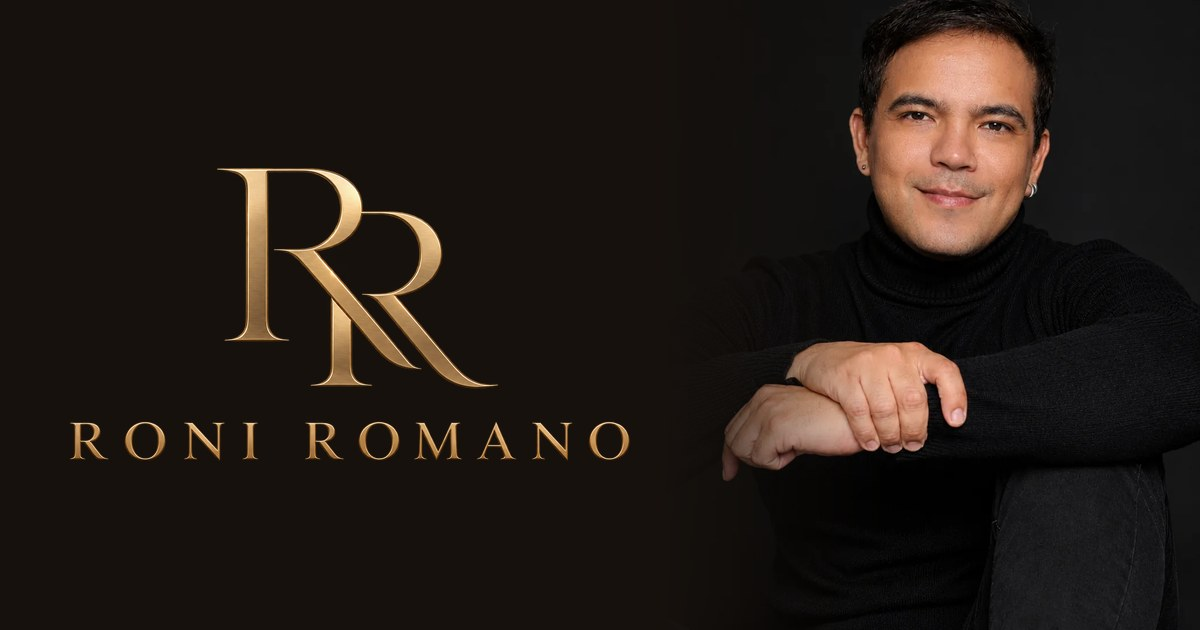
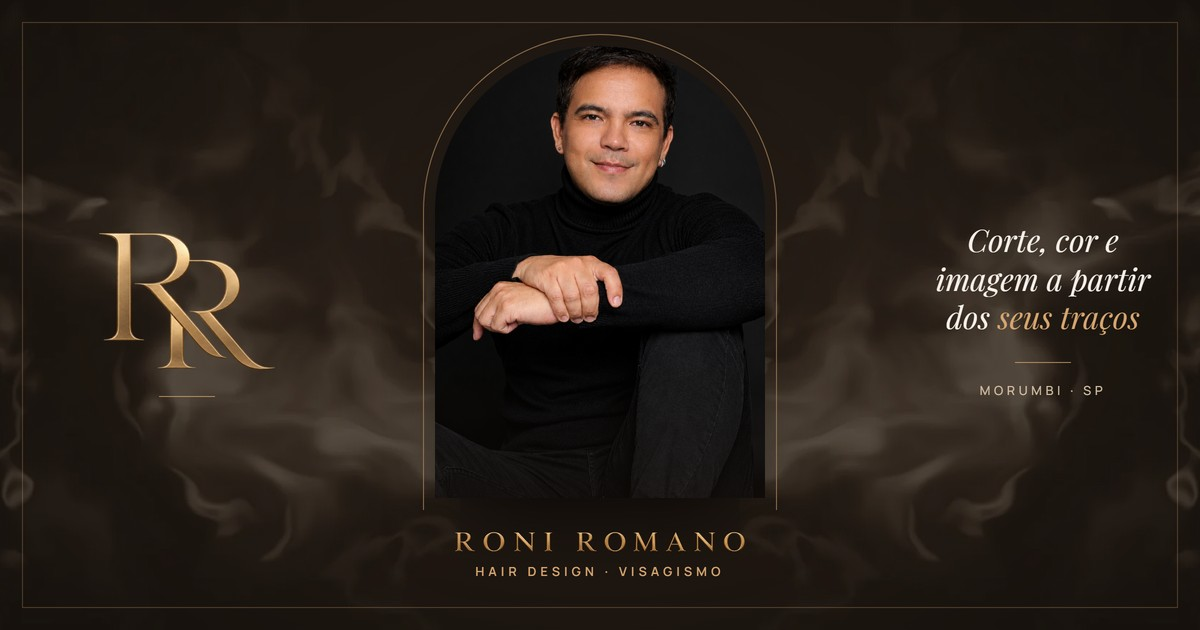
Rolagem suave nos links internos e nova prévia de link
- logo, menu e botões de agendar rolam com animação em vez de saltar
- og.jpg refeito em tools/og.html + og.py: foto em arco no centro, que
  sobrevive ao recorte quadrado do WhatsApp; meta tags completas

diff --git a/tools/og.html b/tools/og.html
@@ -1,0 +1,61 @@
+<!doctype html>
+<!-- Prévia de link (og.jpg, 1200×630), renderizada por tools/og.py.
+     O essencial (foto em arco + nome) fica no quadrado central de 630 px, porque o WhatsApp
+     muitas vezes mostra a prévia como miniatura quadrada cortada no meio. -->
+<html lang="pt-BR">
+<head>
+<meta charset="utf-8">
+<link href="https://fonts.googleapis.com/css2?family=Manrope:wght@500;600&family=Playfair+Display:ital,wght@1,400&display=swap" rel="stylesheet">
+<style>
+  :root{--cafe:#16110d;--cafe-2:#211913;--creme:#f6f1ea;--areia:#d2bea3;--caramelo-2:#d6a670}
+  *{box-sizing:border-box}
+  html,body{margin:0;width:1200px;height:630px;overflow:hidden}
+  body{position:relative;background:radial-gradient(ellipse 60% 80% at 50% 45%,#2a2018 0%,var(--cafe-2) 40%,var(--cafe) 100%);
+    font-family:Manrope,sans-serif;color:var(--creme);-webkit-font-smoothing:antialiased}
+  .fumaca{position:absolute;top:-40px;height:720px;width:520px;object-fit:cover;mix-blend-mode:screen;opacity:.55}
+  .fumaca--e{left:-60px}
+  .fumaca--d{right:-60px;transform:scaleX(-1)}
+  .moldura{position:absolute;inset:22px;border:1px solid rgba(214,166,112,.28)}
+  .arco{position:absolute;left:435px;top:46px;width:330px;height:452px;border-radius:165px 165px 0 0;overflow:hidden;
+    box-shadow:0 40px 80px -30px rgba(0,0,0,.8)}
+  .arco img{width:100%;height:100%;object-fit:cover;object-position:50% 20%;display:block}
+  .arco::after{content:"";position:absolute;inset:0;background:linear-gradient(0deg,rgba(22,17,13,.55),rgba(22,17,13,0) 32%)}
+  .arco-fio{position:absolute;left:423px;top:34px;width:354px;height:476px;border:1px solid rgba(214,166,112,.6);border-bottom:0;border-radius:177px 177px 0 0}
+  .nome{position:absolute;left:0;right:0;top:532px;display:flex;flex-direction:column;align-items:center;gap:14px}
+  .nome img{width:290px;height:auto}
+  .nome span{font:600 12.5px/1 Manrope,sans-serif;letter-spacing:.34em;text-transform:uppercase;color:var(--caramelo-2)}
+  .lado{position:absolute;top:0;bottom:0;width:250px;display:flex;flex-direction:column;align-items:center;justify-content:center;text-align:center}
+  .lado--e{left:62px}
+  .lado--d{right:44px;width:226px}
+  .rr{width:176px;height:auto}
+  .fio{width:56px;height:1px;background:var(--caramelo-2);opacity:.7;margin:26px 0 0}
+  .frase{font:italic 400 31px/1.24 "Playfair Display",serif;color:var(--creme);margin:0}
+  .frase em{color:var(--caramelo-2)}
+  .local{margin-top:22px;font:500 12.5px/1 Manrope,sans-serif;letter-spacing:.3em;text-transform:uppercase;color:var(--areia)}
+</style>
+</head>
+<body>
+  <img class="fumaca fumaca--e" src="../assets/img/fumaca-poster.webp" alt="">
+  <img class="fumaca fumaca--d" src="../assets/img/fumaca-poster.webp" alt="">
+  <div class="moldura"></div>
+
+  <div class="lado lado--e">
+    <img class="rr" src="../assets/img/logo-rr.png" alt="">
+    <div class="fio"></div>
+  </div>
+
+  <div class="arco-fio"></div>
+  <div class="arco"><img src="../../hero-para-melhorar/roni-hero-hd.png" alt=""></div>
+
+  <div class="nome">
+    <img src="../assets/img/logo-nome.png" alt="Roni Romano">
+    <span>Hair design · Visagismo</span>
+  </div>
+
+  <div class="lado lado--d">
+    <p class="frase">Corte, cor e imagem a partir dos <em>seus traços</em></p>
+    <div class="fio"></div>
+    <p class="local">Morumbi · SP</p>
+  </div>
+</body>
+</html>

diff --git a/index.html b/index.html
@@ -17,15 +17,19 @@
 <meta property="og:title" content="Roni Romano · Hair Design e Visagismo">
 <meta property="og:description" content="Corte, cor e imagem planejados a partir dos seus traços. Morumbi, São Paulo.">
 <meta property="og:url" content="https://azeugral.github.io/roni-romano/">
-<meta property="og:image" content="https://azeugral.github.io/roni-romano/og.jpg?v=3">
+<meta property="og:image" content="https://azeugral.github.io/roni-romano/og.jpg?v=4">
+<meta property="og:image:secure_url" content="https://azeugral.github.io/roni-romano/og.jpg?v=4">
+<meta property="og:image:type" content="image/jpeg">
+<meta property="og:image:alt" content="Roni Romano, hair designer e visagista, em retrato com a logo dourada RR">
 <meta property="og:image:width" content="1200">
 <meta property="og:image:height" content="630">
 <meta name="twitter:card" content="summary_large_image">
+<meta name="twitter:image" content="https://azeugral.github.io/roni-romano/og.jpg?v=4">
 <link rel="preconnect" href="https://fonts.googleapis.com">
 <link rel="preconnect" href="https://fonts.gstatic.com" crossorigin>
 <link href="https://fonts.googleapis.com/css2?family=Manrope:wght@400;500;600&family=Playfair+Display:ital,wght@0,400;0,500;1,400&display=swap" rel="stylesheet">
 <link rel="preload" as="image" href="assets/img/roni-hero-1080.webp" imagesrcset="assets/img/roni-hero-640.webp 640w, assets/img/roni-hero-1080.webp 942w" imagesizes="(max-width:900px) 100vw, 50vw">
-<link rel="stylesheet" href="assets/style.css?v=20261026">
+<link rel="stylesheet" href="assets/style.css?v=20261027">
 <script>document.documentElement.classList.add("js")</script>
 <script type="application/ld+json">
 {"@context":"https://schema.org","@type":"HairSalon","name":"Roni Romano Hair Design","description":"Hair design, visagismo, coloração, coloração pessoal, noivas e maquiagem.","telephone":"+55 11 98299-1393","address":{"@type":"PostalAddress","streetAddress":"Rua Deputado João Sussumu Hirata, 43","addressLocality":"São Paulo","addressRegion":"SP","postalCode":"05715-010","addressCountry":"BR"},"sameAs":["https://www.instagram.com/roniromano/"]}
@@ -289,7 +293,7 @@
   <button class="prox" type="button" aria-label="Próxima foto"><svg viewBox="0 0 24 24" fill="none" stroke="currentColor" stroke-width="1.5"><path d="M9 5l7 7-7 7"/></svg></button>
 </div>
 <!--/RODAPE-->
-<script src="assets/fumaca.js?v=20261026" defer></script>
-<script src="assets/site.js?v=20261026" defer></script>
+<script src="assets/fumaca.js?v=20261027" defer></script>
+<script src="assets/site.js?v=20261027" defer></script>
 </body>
 </html>

diff --git a/trabalhos.html b/trabalhos.html
@@ -17,14 +17,18 @@
 <meta property="og:title" content="Roni Romano · Hair Design e Visagismo">
 <meta property="og:description" content="Corte, cor e imagem planejados a partir dos seus traços. Morumbi, São Paulo.">
 <meta property="og:url" content="https://azeugral.github.io/roni-romano/">
-<meta property="og:image" content="https://azeugral.github.io/roni-romano/og.jpg?v=3">
+<meta property="og:image" content="https://azeugral.github.io/roni-romano/og.jpg?v=4">
+<meta property="og:image:secure_url" content="https://azeugral.github.io/roni-romano/og.jpg?v=4">
+<meta property="og:image:type" content="image/jpeg">
+<meta property="og:image:alt" content="Roni Romano, hair designer e visagista, em retrato com a logo dourada RR">
 <meta property="og:image:width" content="1200">
 <meta property="og:image:height" content="630">
 <meta name="twitter:card" content="summary_large_image">
+<meta name="twitter:image" content="https://azeugral.github.io/roni-romano/og.jpg?v=4">
 <link rel="preconnect" href="https://fonts.googleapis.com">
 <link rel="preconnect" href="https://fonts.gstatic.com" crossorigin>
 <link href="https://fonts.googleapis.com/css2?family=Manrope:wght@400;500;600&family=Playfair+Display:ital,wght@0,400;0,500;1,400&display=swap" rel="stylesheet">
-<link rel="stylesheet" href="assets/style.css?v=20261026">
+<link rel="stylesheet" href="assets/style.css?v=20261027">
 <script>document.documentElement.classList.add("js")</script>
 <script type="application/ld+json">
 {"@context":"https://schema.org","@type":"HairSalon","name":"Roni Romano Hair Design","description":"Hair design, visagismo, coloração, coloração pessoal, noivas e maquiagem.","telephone":"+55 11 98299-1393","address":{"@type":"PostalAddress","streetAddress":"Rua Deputado João Sussumu Hirata, 43","addressLocality":"São Paulo","addressRegion":"SP","postalCode":"05715-010","addressCountry":"BR"},"sameAs":["https://www.instagram.com/roniromano/"]}
@@ -128,6 +132,6 @@
   <button class="prox" type="button" aria-label="Próxima foto"><svg viewBox="0 0 24 24" fill="none" stroke="currentColor" stroke-width="1.5"><path d="M9 5l7 7-7 7"/></svg></button>
 </div>
 <!--/RODAPE-->
-<script src="assets/site.js?v=20261026" defer></script>
+<script src="assets/site.js?v=20261027" defer></script>
 </body>
 </html>

diff --git a/404.html b/404.html
@@ -17,14 +17,18 @@
 <meta property="og:title" content="Roni Romano · Hair Design e Visagismo">
 <meta property="og:description" content="Corte, cor e imagem planejados a partir dos seus traços. Morumbi, São Paulo.">
 <meta property="og:url" content="https://azeugral.github.io/roni-romano/">
-<meta property="og:image" content="https://azeugral.github.io/roni-romano/og.jpg?v=3">
+<meta property="og:image" content="https://azeugral.github.io/roni-romano/og.jpg?v=4">
+<meta property="og:image:secure_url" content="https://azeugral.github.io/roni-romano/og.jpg?v=4">
+<meta property="og:image:type" content="image/jpeg">
+<meta property="og:image:alt" content="Roni Romano, hair designer e visagista, em retrato com a logo dourada RR">
 <meta property="og:image:width" content="1200">
 <meta property="og:image:height" content="630">
 <meta name="twitter:card" content="summary_large_image">
+<meta name="twitter:image" content="https://azeugral.github.io/roni-romano/og.jpg?v=4">
 <link rel="preconnect" href="https://fonts.googleapis.com">
 <link rel="preconnect" href="https://fonts.gstatic.com" crossorigin>
 <link href="https://fonts.googleapis.com/css2?family=Manrope:wght@400;500;600&family=Playfair+Display:ital,wght@0,400;0,500;1,400&display=swap" rel="stylesheet">
-<link rel="stylesheet" href="assets/style.css?v=20261026">
+<link rel="stylesheet" href="assets/style.css?v=20261027">
 <script>document.documentElement.classList.add("js")</script>
 <script type="application/ld+json">
 {"@context":"https://schema.org","@type":"HairSalon","name":"Roni Romano Hair Design","description":"Hair design, visagismo, coloração, coloração pessoal, noivas e maquiagem.","telephone":"+55 11 98299-1393","address":{"@type":"PostalAddress","streetAddress":"Rua Deputado João Sussumu Hirata, 43","addressLocality":"São Paulo","addressRegion":"SP","postalCode":"05715-010","addressCountry":"BR"},"sameAs":["https://www.instagram.com/roniromano/"]}
@@ -81,6 +85,6 @@
   <button class="prox" type="button" aria-label="Próxima foto"><svg viewBox="0 0 24 24" fill="none" stroke="currentColor" stroke-width="1.5"><path d="M9 5l7 7-7 7"/></svg></button>
 </div>
 <!--/RODAPE-->
-<script src="assets/site.js?v=20261026" defer></script>
+<script src="assets/site.js?v=20261027" defer></script>
 </body>
 </html>

diff --git a/assets/site.js b/assets/site.js
@@ -85,6 +85,36 @@
     abre.setAttribute("aria-expanded", String(aberto));
   });
   document.querySelectorAll(".menu a").forEach(a => a.addEventListener("click", fecharMenu));
+
+  // links internos (logo, menu, "agendar") rolam suave até o destino em vez de saltar;
+  // a duração cresce com a distância e o toque ou a roda do mouse interrompem a animação
+  let rolagem = 0;
+  const parar = () => cancelAnimationFrame(rolagem);
+  ["wheel", "touchstart", "keydown"].forEach(ev => addEventListener(ev, parar, { passive: true }));
+  const rolarAte = destino => {
+    parar();
+    const inicio = scrollY, dist = destino - inicio;
+    if (reduz || Math.abs(dist) < 2) { scrollTo(0, destino); return; }
+    const dur = Math.min(1300, Math.max(550, Math.abs(dist) * .35)), t0 = performance.now();
+    const curva = t => t < .5 ? 4 * t * t * t : 1 - Math.pow(-2 * t + 2, 3) / 2;
+    const passo = agora => {
+      const t = Math.min((agora - t0) / dur, 1);
+      scrollTo(0, inicio + dist * curva(t));
+      if (t < 1) rolagem = requestAnimationFrame(passo);
+    };
+    rolagem = requestAnimationFrame(passo);
+  };
+  document.querySelectorAll('a[href*="#"]').forEach(a => a.addEventListener("click", e => {
+    const url = new URL(a.href, location.href);
+    const mesma = url.pathname.replace(/index\.html$/, "") === location.pathname.replace(/index\.html$/, "");
+    const alvo = url.hash && document.getElementById(decodeURIComponent(url.hash.slice(1)));
+    if (!mesma || !alvo || e.metaKey || e.ctrlKey || e.shiftKey) return;
+    e.preventDefault();
+    fecharMenu();
+    const folga = parseFloat(getComputedStyle(doc).scrollPaddingTop) || 0;
+    rolarAte(alvo.id === "inicio" ? 0 : Math.max(0, alvo.getBoundingClientRect().top + scrollY - folga));
+    history.pushState(null, "", alvo.id === "inicio" ? url.pathname : url.hash);
+  }));
   addEventListener("keydown", e => { if (e.key === "Escape") fecharMenu(); });
   matchMedia("(min-width: 901px)").addEventListener("change", e => e.matches && fecharMenu());
 

diff --git a/tools/logo.py b/tools/logo.py
@@ -1,11 +1,12 @@
 """Recorta a logo oficial (../_ref/logo/logo-oficial.png, dourada em fundo transparente) e gera
-as versões do site, as favicons e a prévia de link (og.jpg).
+as versões do site e as favicons.
 
 Uso: python -I tools/logo.py
 - assets/img/logo-rr.png      monograma RR
 - assets/img/logo-nome.png    letreiro RONI ROMANO
 - assets/img/logo.png         logo completa (rodapé)
 - favicon-32.png, favicon-192.png, apple-touch-icon.png, favicon.ico
+(a prévia de link, og.jpg, sai de tools/og.py)
 """
 from pathlib import Path
 
@@ -78,26 +79,9 @@ def main():
     icone(180, .2, arredondado=False).convert("RGB").save(RAIZ / "apple-touch-icon.png")  # o iOS arredonda sozinho
     icone(48, .13).save(RAIZ / "favicon.ico", sizes=[(16, 16), (32, 32), (48, 48)])
 
-    # prévia de link: foto do hero à direita, logo à esquerda
-    W, H = 1200, 630
-    og = Image.new("RGB", (W, H), CAFE)
-    foto = Image.open(RAIZ / "assets/img/roni-hero-1080.webp").convert("RGB")
-    fw = 540
-    foto = foto.resize((fw, round(foto.height * fw / foto.width)), Image.LANCZOS)
-    y = int(foto.height * .05)
-    og.paste(foto.crop((0, y, fw, y + H)), (W - fw, 0))
-    mask = Image.new("L", (240, H))
-    d = ImageDraw.Draw(mask)
-    for x in range(240):
-        d.line([(x, 0), (x, H)], fill=int(255 * (1 - x / 240) ** 1.4))
-    og.paste(Image.new("RGB", (240, H), CAFE), (W - fw, 0), mask)
-    lg = completo.copy()
-    lg.thumbnail((560, 380), Image.LANCZOS)
-    og.paste(lg, (70 + (560 - lg.width) // 2, (H - lg.height) // 2), lg)
-    og.save(RAIZ / "og.jpg", quality=88)
     for f in ("favicon.svg",):
         (RAIZ / f).unlink(missing_ok=True)
-    print("logo, favicons e og.jpg gerados", rr.size, nome.size)
+    print("logo e favicons gerados", rr.size, nome.size)
 
 
 if __name__ == "__main__":

diff --git a/tools/og.py b/tools/og.py
@@ -1,0 +1,31 @@
+"""Renderiza a prévia de link (og.jpg, 1200×630) a partir de tools/og.html num Chromium headless.
+
+Uso: python -I tools/og.py
+A arte usa a foto otimizada do hero e as fontes do site (Google Fonts, precisa de internet).
+"""
+from io import BytesIO
+from pathlib import Path
+
+from PIL import Image
+from playwright.sync_api import sync_playwright
+
+RAIZ = Path(__file__).resolve().parent.parent
+
+
+def main():
+    with sync_playwright() as pw:
+        b = pw.chromium.launch()
+        pg = b.new_page(viewport={"width": 1200, "height": 630}, device_scale_factor=2)
+        pg.goto((RAIZ / "tools" / "og.html").as_uri())
+        pg.wait_for_load_state("networkidle")
+        pg.evaluate("document.fonts.ready")
+        png = pg.screenshot()
+        b.close()
+    # renderiza em 2x e reduz: letras e fios saem mais limpos que no 1x
+    im = Image.open(BytesIO(png)).convert("RGB").resize((1200, 630), Image.LANCZOS)
+    im.save(RAIZ / "og.jpg", quality=90, optimize=True, progressive=True)
+    print("og.jpg", round((RAIZ / "og.jpg").stat().st_size / 1024), "KB")
+
+
+if __name__ == "__main__":
+    main()
